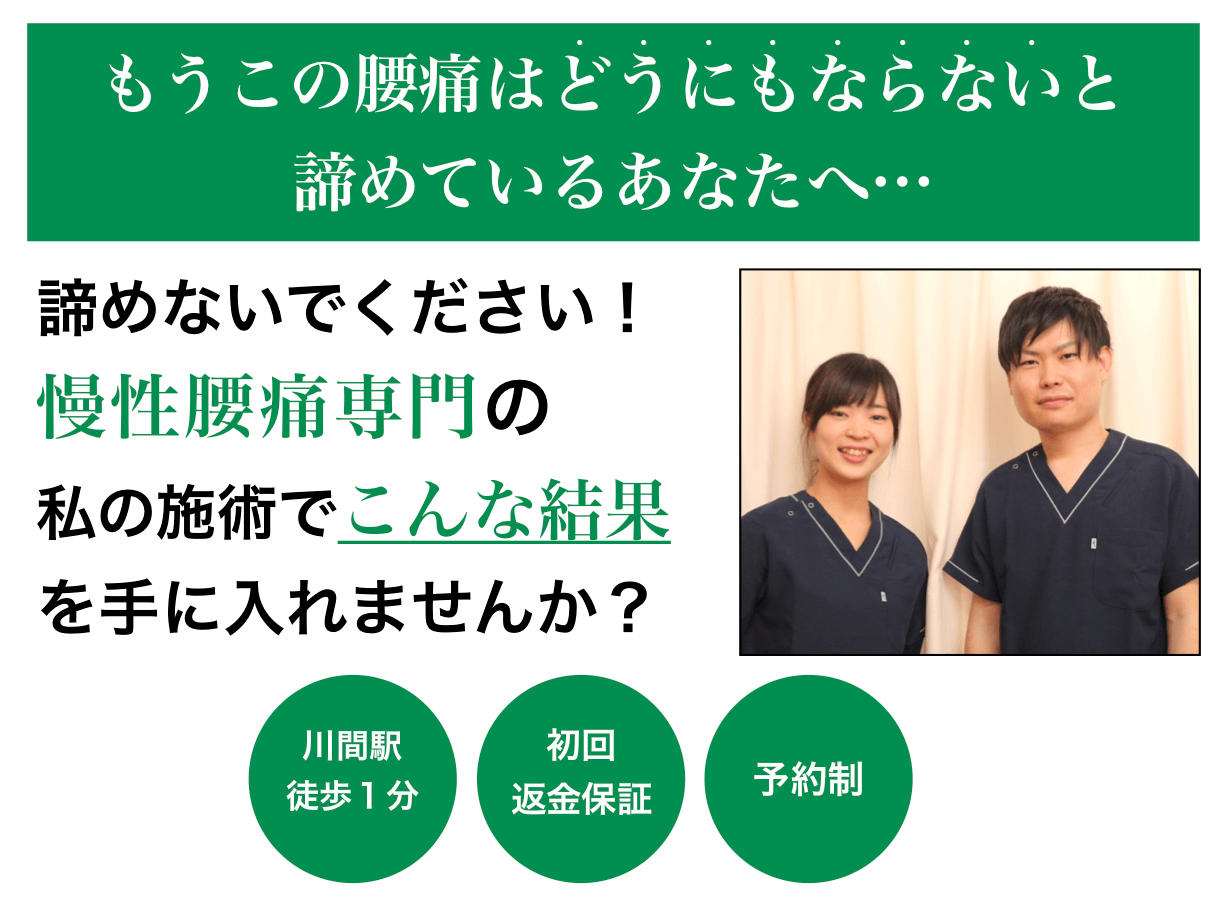
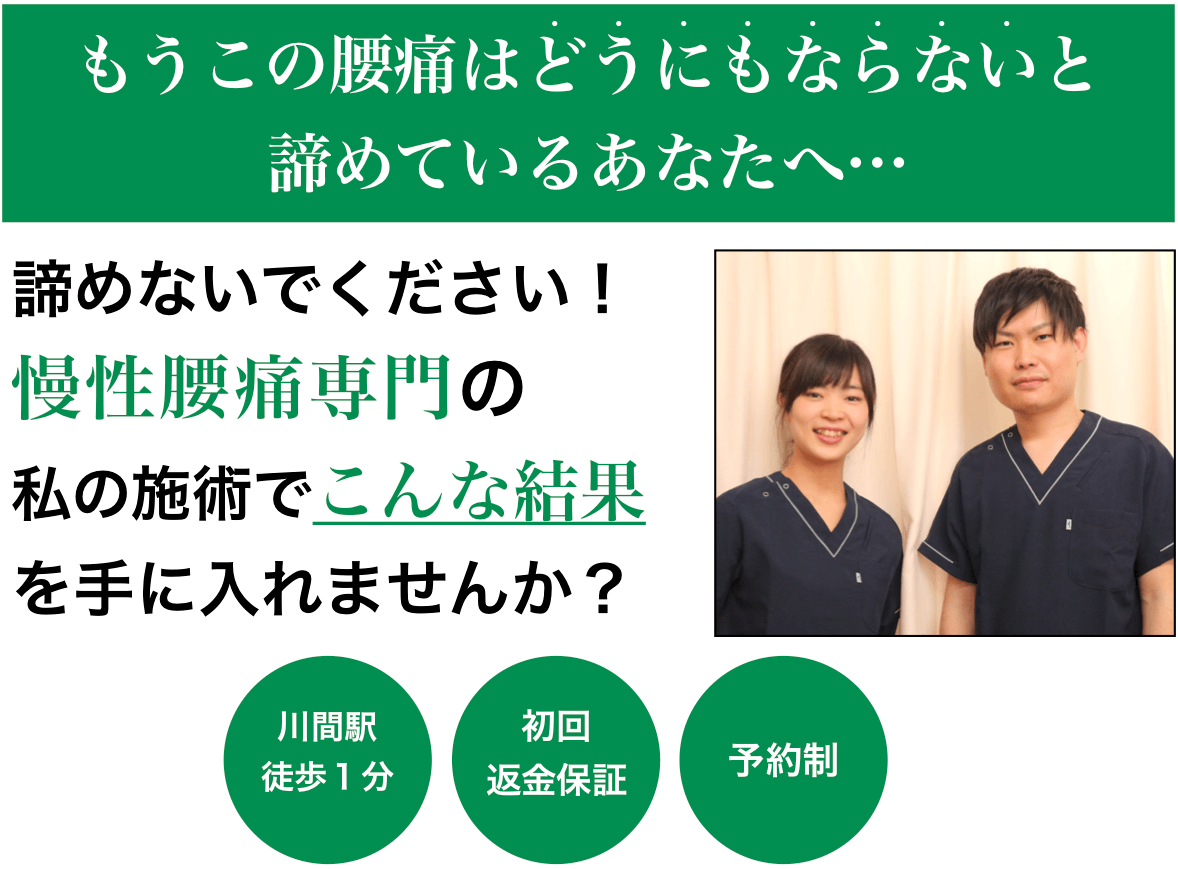
replace headline-image on mobile

Changed region(s): [[0.0, 0.0, 1.0, 0.9942], [0.0, 0.4039, 0.4584, 0.4971], [0.8862, 0.5903, 0.9168, 0.6214]]

diff --git a/layouts/partials/headline.html b/layouts/partials/headline.html
@@ -7,13 +7,13 @@
         <div class="mobile-hidden col-md-12">
           <img class="headline-image" src="{{ .Site.Params.headline.headlinePC }}">
         </div>
-        <div class="welcome mobile">
-          <img src="{{ .Site.Params.headline.welcome }}" width="100%">
-          <!-- <img src="{{ .Site.Params.headline.headlineMobile }}" width="100%"> -->
+        <div class="headline-image mobile">
+          <!-- <img src="{{ .Site.Params.headline.welcome }}" width="100%"> -->
+          <img src="{{ .Site.Params.headline.headlineMobile }}" width="100%">
         </div>
         <div class="body col-md-12">
           <div class="mobile tablet-hidden">
-            <p>当院は地域に寄り添う整骨院です！</p>
+            <!-- <p>当院は地域に寄り添う整骨院です！</p> -->
             <div class="line-add">
               <span>LINEでの予約もできます！</span>
               <a href="https://line.me/R/ti/p/%40csl7770d"><img height="36" alt="友だち追加" src="https://scdn.line-apps.com/n/line_add_friends/btn/ja.png"></a>

diff --git a/static/css/headline.css b/static/css/headline.css
@@ -92,9 +92,8 @@
         padding-top: 0px; 
     }
 
-    #headline .welcome img {
-        width: 80%;
-        margin-bottom: 20px; 
+    #headline .headline-image img {
+        margin: 30px 0px; 
     }
 }
 
